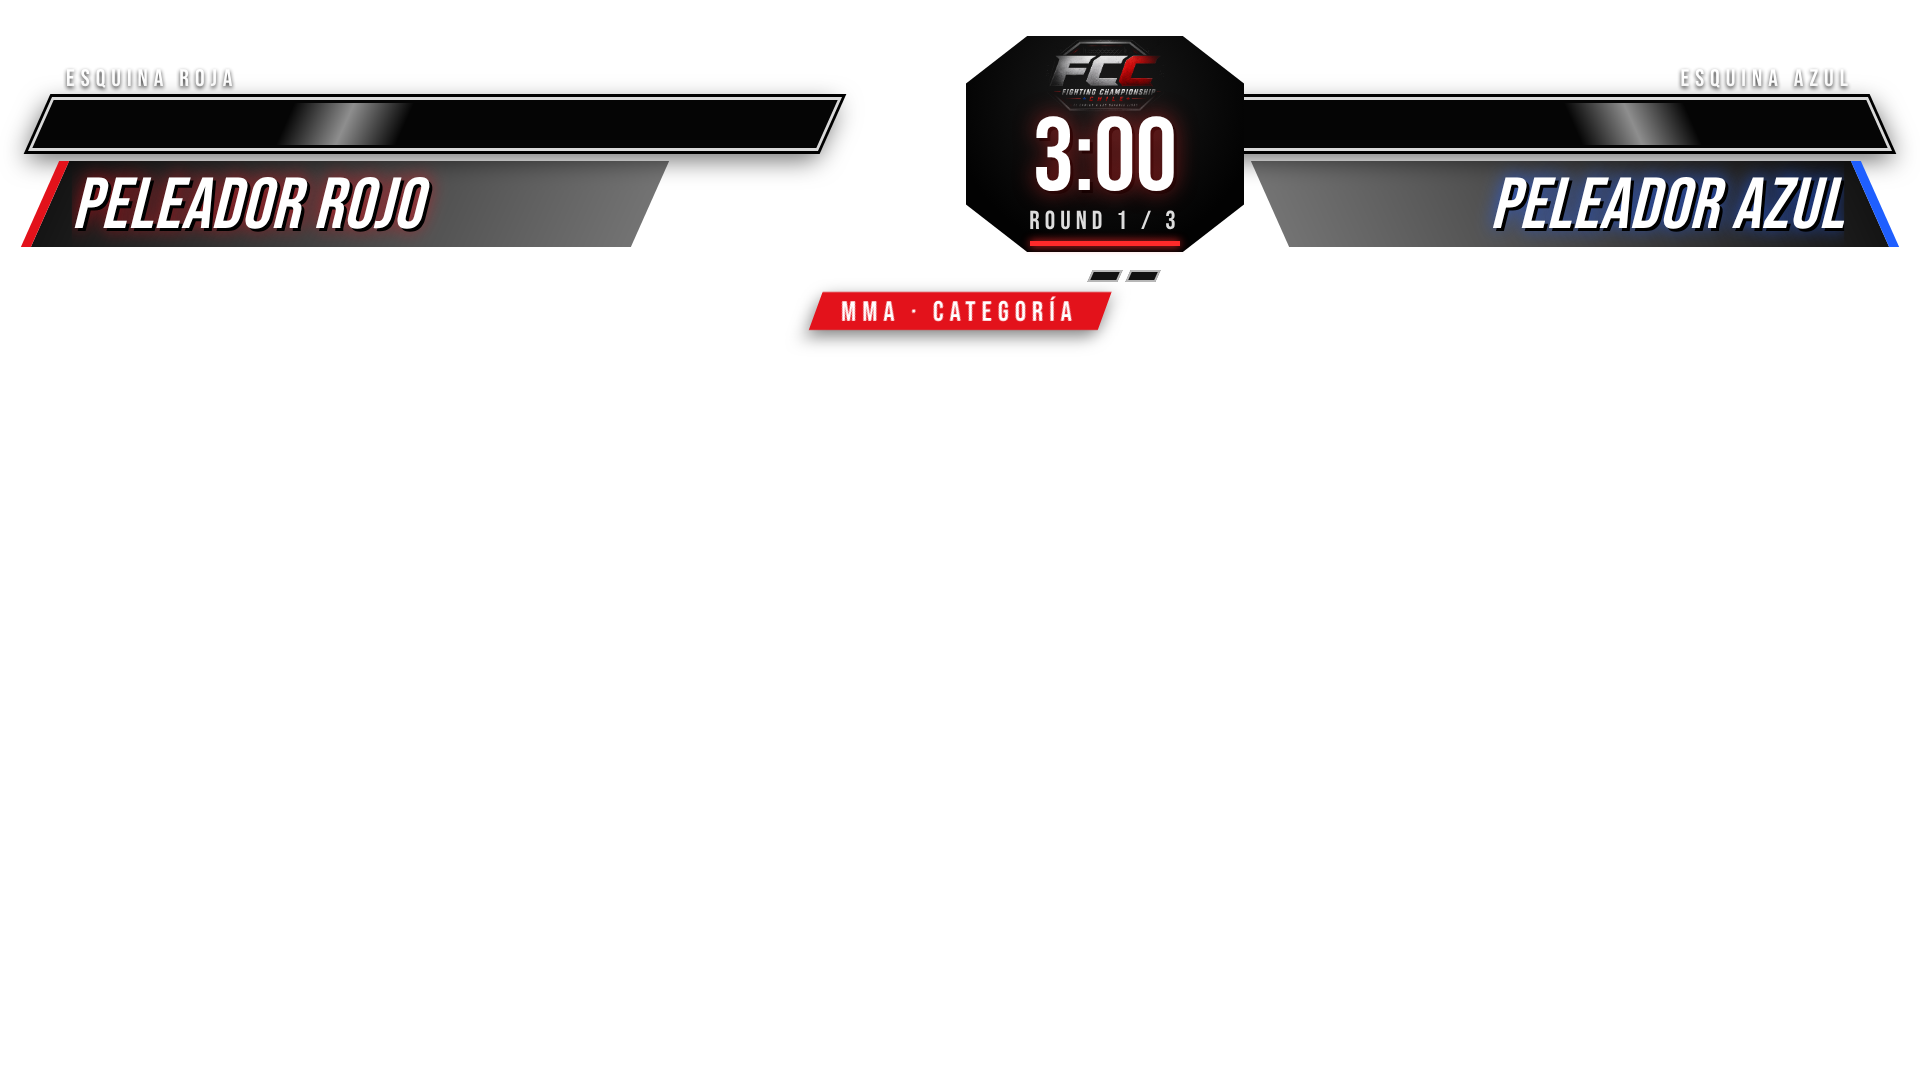
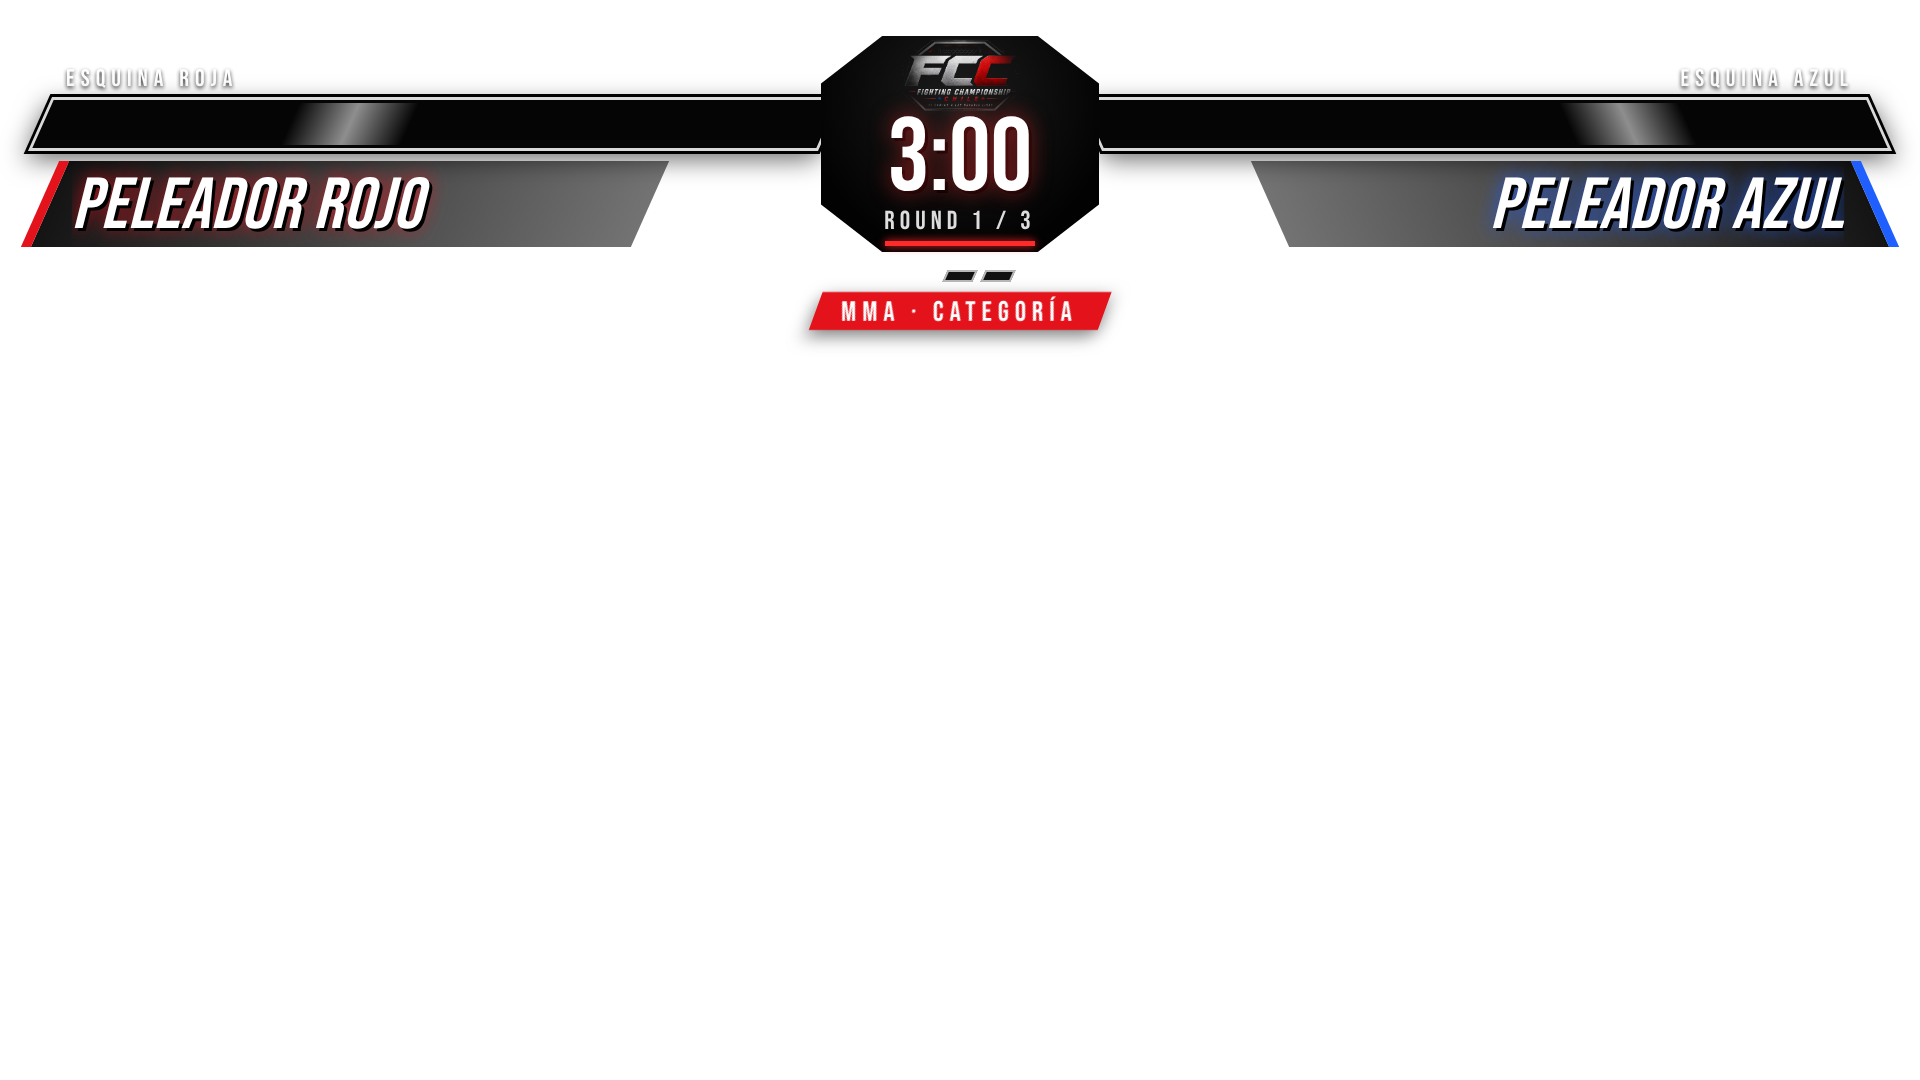
Marcador: reloj centrado, composición simétrica
Claude-Session: https://claude.ai/code/session_01JwhRLW4ML7D7bYQBfu8x2F

Changed region(s): [[0.4062, 0.0306, 0.6562, 0.275]]

diff --git a/Paneles/FCC2_Overlay_Marcador.html b/Paneles/FCC2_Overlay_Marcador.html
@@ -42,7 +42,7 @@ html,body{background:transparent}
 .rec{font-family:"Bebas";font-size:34px;color:#fff;background:rgba(255,255,255,.12);padding:4px 12px 0;letter-spacing:2px;white-space:nowrap}
 .rec:empty{display:none}
 /* ---- centro ---- */
-.ctr{position:absolute;left:50%;top:0;width:290px;height:228px;transform:translateX(-50%)}
+.ctr{position:absolute;left:50%;top:0;width:290px;height:228px;margin-left:-145px}
 .oct{position:absolute;inset:0;clip-path:polygon(22% 0,78% 0,100% 22%,100% 78%,78% 100%,22% 100%,0 78%,0 22%);background:linear-gradient(160deg,#fff,var(--red) 35%,var(--red-dk))}
 .oct.in{inset:6px;background:radial-gradient(circle at 50% 30%,#1c1c1c,#020202 75%)}
 .ctx{position:absolute;inset:0;display:flex;flex-direction:column;align-items:center;justify-content:center}

diff --git a/fuente/build.py b/fuente/build.py
@@ -265,7 +265,7 @@ P['FCC2_Overlay_Marcador'] = page('FCC 2 Marcador', '''
 .rec{font-family:"Bebas";font-size:34px;color:#fff;background:rgba(255,255,255,.12);padding:4px 12px 0;letter-spacing:2px;white-space:nowrap}
 .rec:empty{display:none}
 /* ---- centro ---- */
-.ctr{position:absolute;left:50%;top:0;width:290px;height:228px;transform:translateX(-50%)}
+.ctr{position:absolute;left:50%;top:0;width:290px;height:228px;margin-left:-145px}
 .oct{position:absolute;inset:0;clip-path:polygon(22% 0,78% 0,100% 22%,100% 78%,78% 100%,22% 100%,0 78%,0 22%);background:linear-gradient(160deg,#fff,var(--red) 35%,var(--red-dk))}
 .oct.in{inset:6px;background:radial-gradient(circle at 50% 30%,#1c1c1c,#020202 75%)}
 .ctx{position:absolute;inset:0;display:flex;flex-direction:column;align-items:center;justify-content:center}
